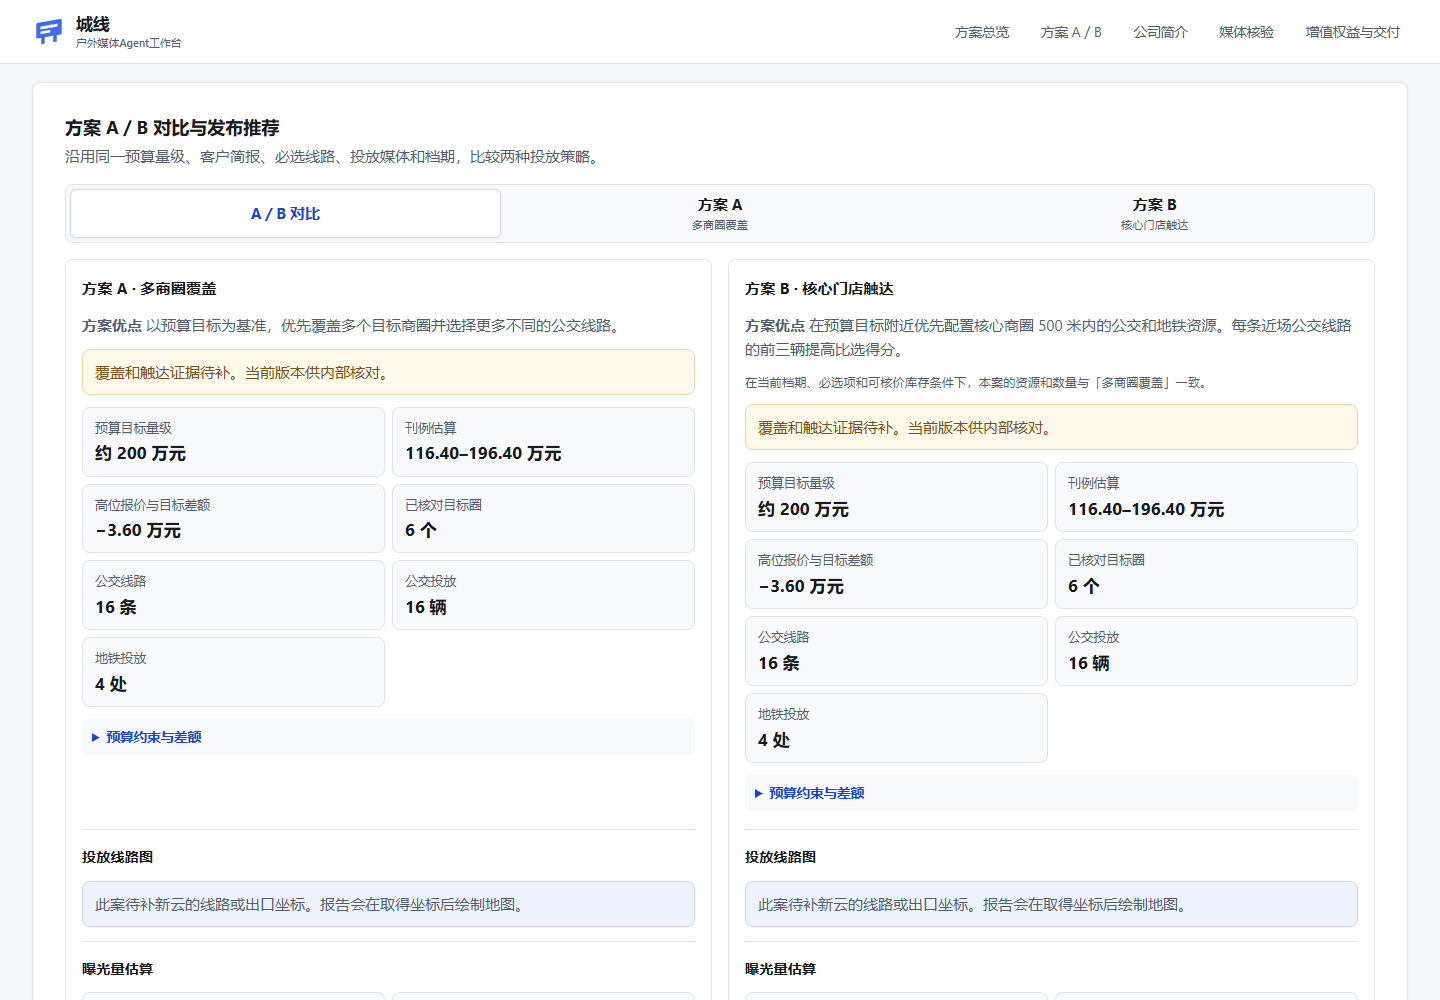
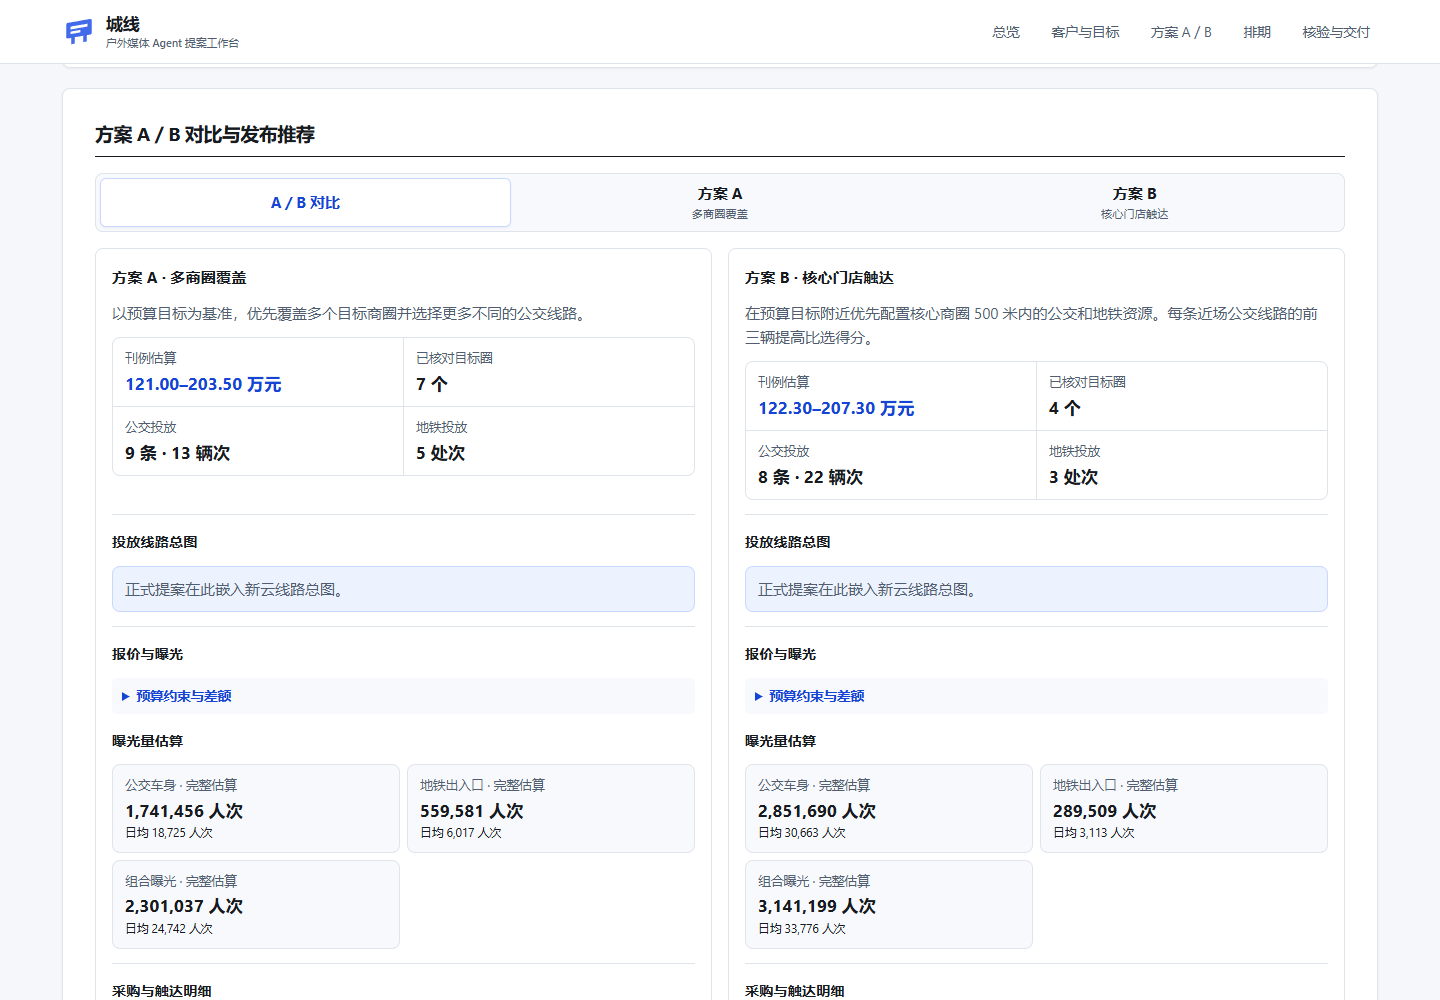
docs: 更新工作台与提案对比截图

diff --git a/README.md b/README.md
@@ -22,11 +22,13 @@
 
 ## 演示流程
 
-1. 在「提案任务」粘贴脱敏的食品饮料品牌 Brief，确认目标商圈、必选线路、2027 年全年档期及约 200 万元预算。首次体验可直接选择「试用合成样例」。
-2. 在任务详情查看取数、组合核算及报告核验进度。授权环境中，按提示登录新云和红豆后继续取数。
+1. 在「提案任务」核对食品饮料新品试饮案，或粘贴自己的脱敏 Brief。默认展示 2027 年全年与约 200 万元的预算，5 月预热 40 万、7 月主投 120 万、10 月回访 40 万。首次体验可直接选择「试用合成样例」。
+2. 在任务详情查看策略、取数、组合核算及报告核验进度。需求策略 Agent 先确定要查询的档期，再按提示完成新云与红豆授权。
 3. 打开报告对比 A/B。**A 案扩大商圈覆盖，B 案聚焦核心门店周边。** 两案按同一预算量级、档期和库存计算，可展开线路图、采购数量、刊例及施工核验。
 4. 在已锁定数据的任务中，以 100 万元和 500 万元分别重算，查看公交车辆和地铁点位增减、替换以及费用变化。
 5. 下载独立 HTML 报告。图表、样式和交互随文件保存，断网后仍可切换方案、查看线路图及采购明细。完成证据核验与人工审核后可导出已确认方案。
+
+下图为全年合成样例的 A/B 方案对比。
 
 ![A/B 投放提案对比合成样例](./docs/images/投放提案对比.png)
 
@@ -34,8 +36,9 @@
 
 | 阶段 | 工作内容 |
 | --- | --- |
-| 需求确认与取数 | 从 4A Brief 提取目标、媒体、档期及必选线路。人工确认后，查询经授权的新云覆盖和红豆库存。 |
-| 需求策略 Agent | 根据已确认的客户目标，判断到访引导、通勤覆盖或品牌认知的策略方向。 |
+| 需求确认 | 从 4A Brief 提取目标、媒体、档期及必选线路，由操作员核对。 |
+| 需求策略 Agent | 采用已确认的主目标和采购段。客户未指定各段时，在选定时限内提出候选档期。 |
+| 数据核验 | 逐项完成两平台授权，按策略确定的档期查询新云覆盖、红豆库存和对应刊例。 |
 | 媒介组合 Agent | 根据策略给出资源组合的核算优先级。Rust 依据库存、刊例和必选线路计算 A/B 采购清单、排期与报价。 |
 | 报告核验 Agent | 基于实际方案比较及证据提出推荐和复核顺序。系统标注缺失的触达、点位坐标或施工条件，最终方案由人工确认。 |
 
